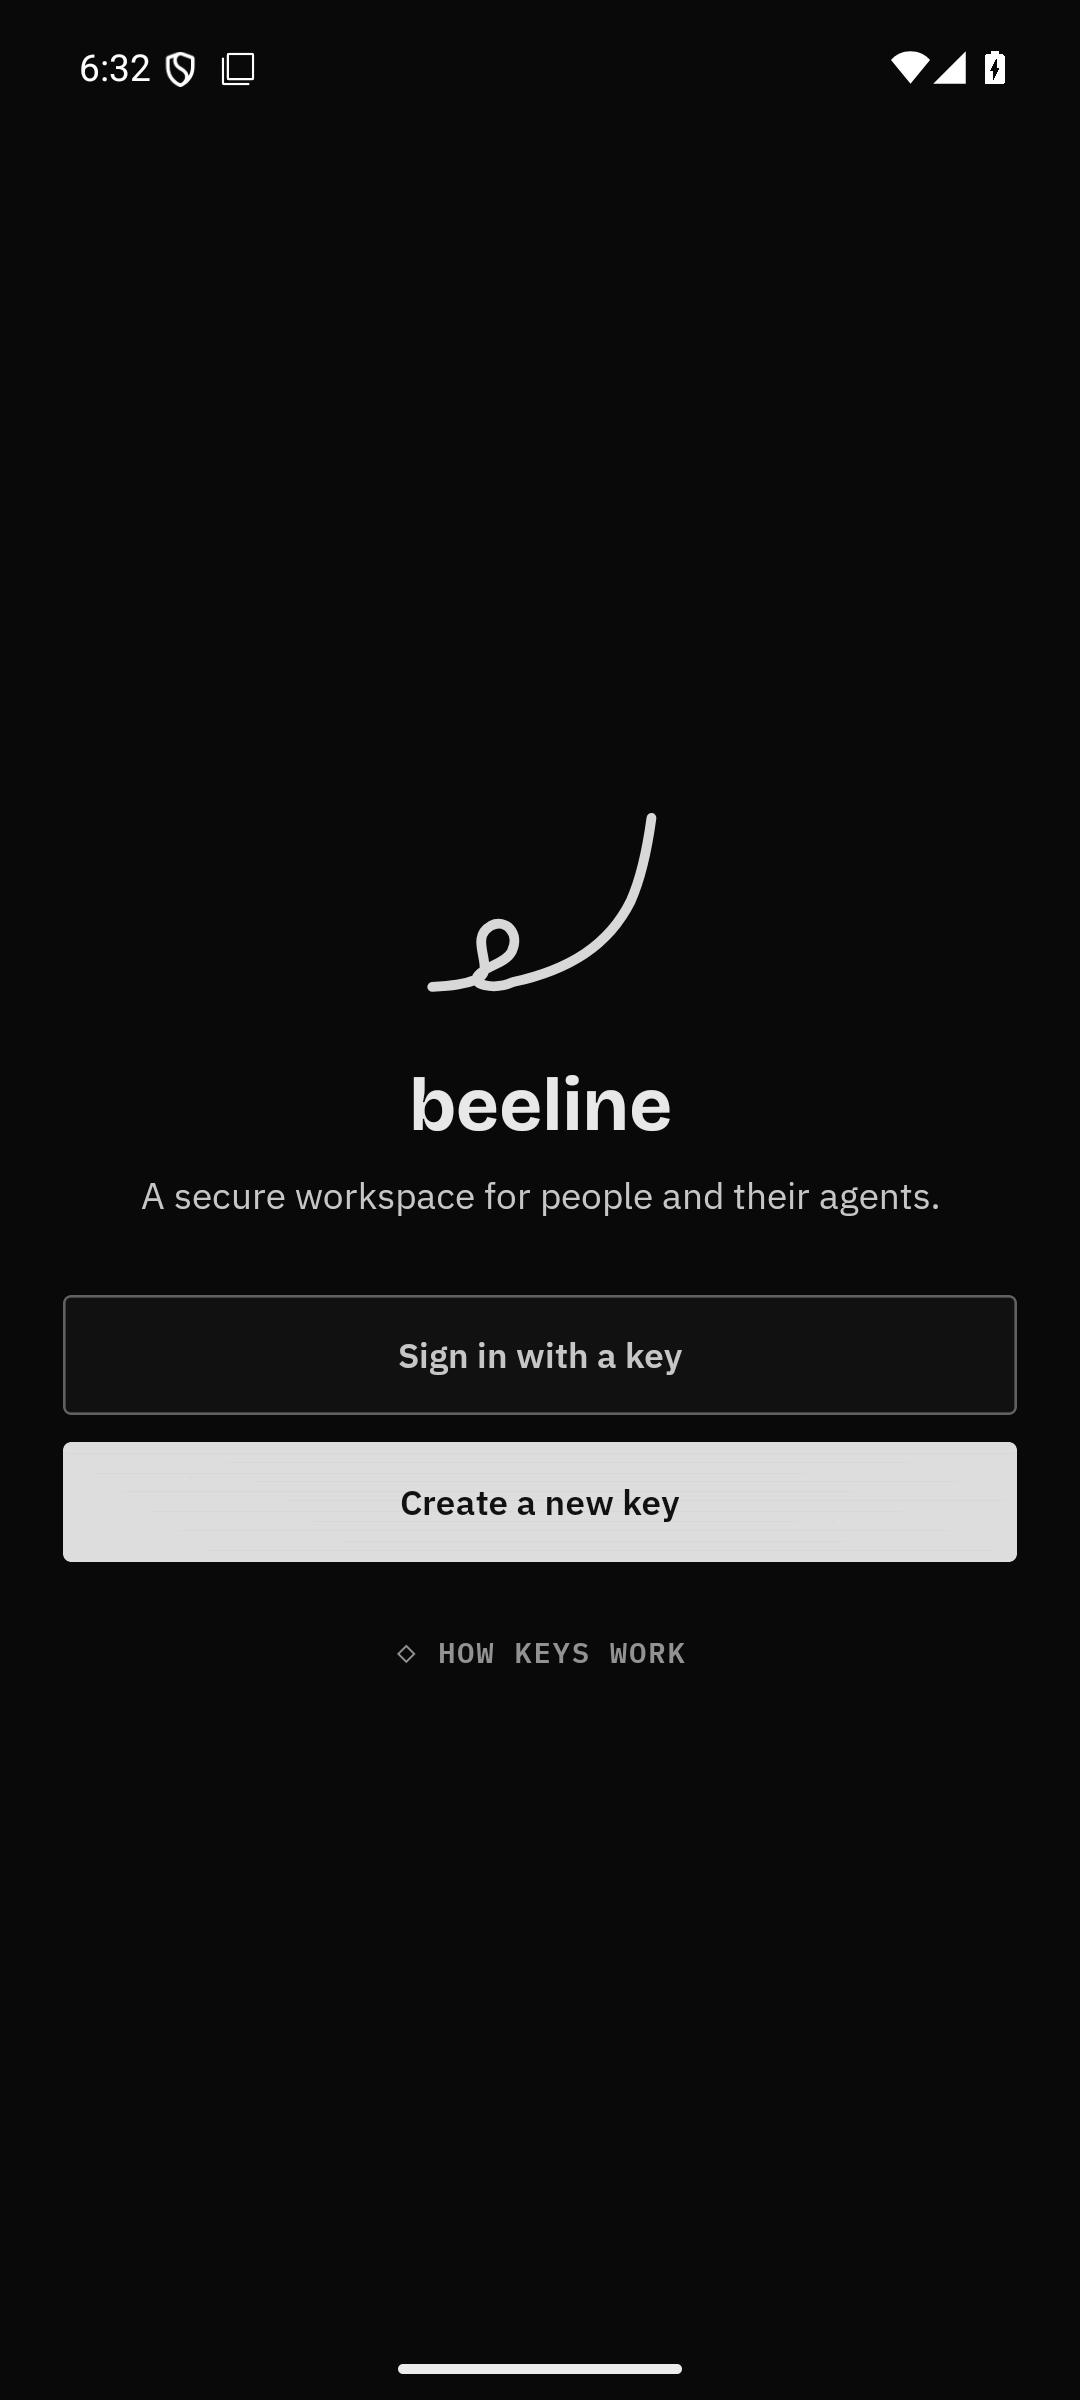
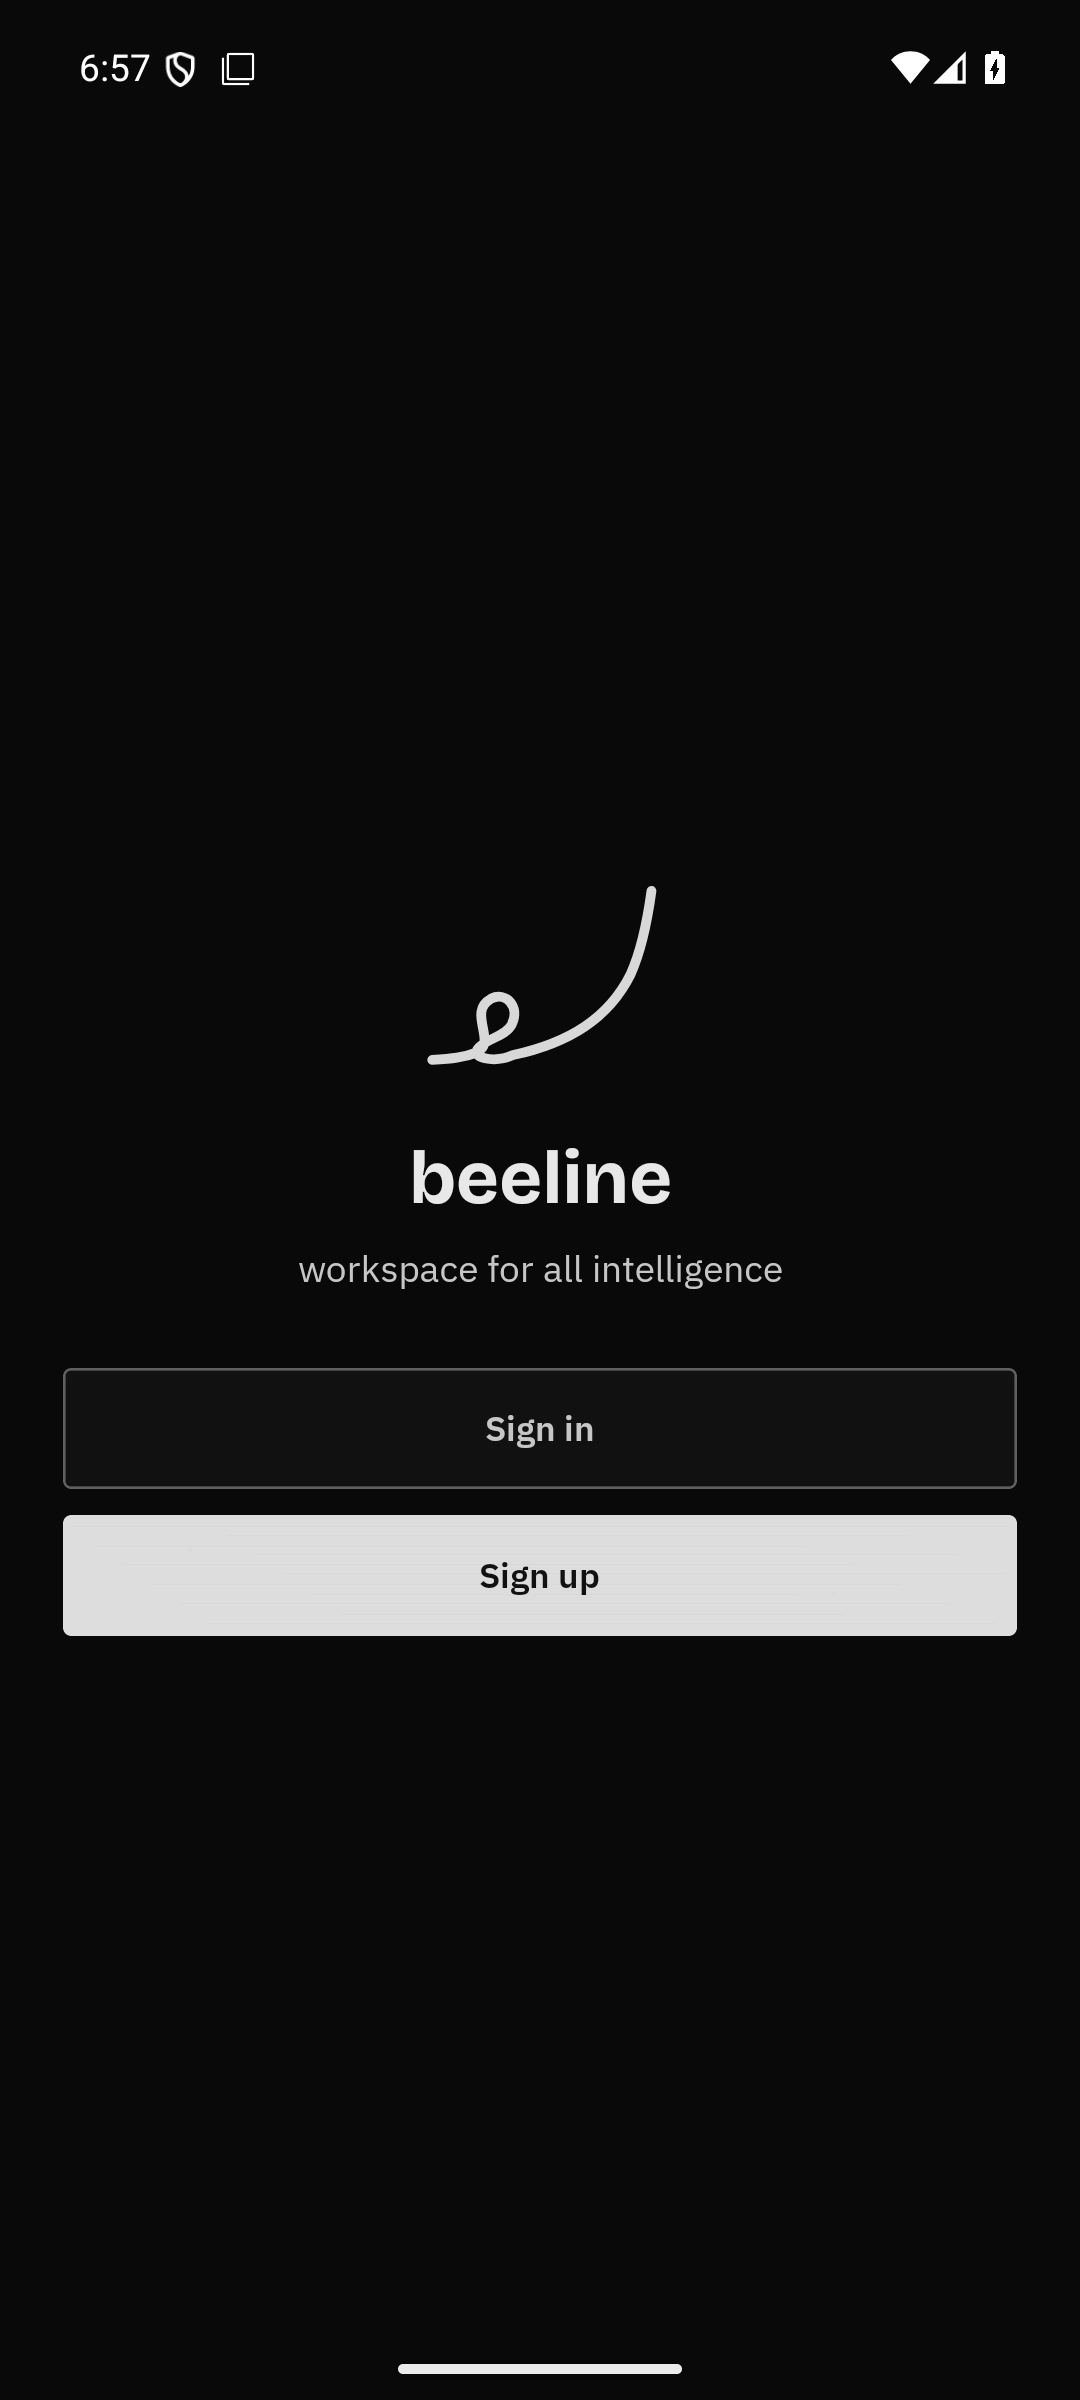
fix(mobile): restore approved onboarding copy

Changed region(s): [[0.0611, 0.3438, 0.9472, 0.7188]]

diff --git a/apps/mobile/sources/app/(app)/buzz/onboarding.tsx b/apps/mobile/sources/app/(app)/buzz/onboarding.tsx
@@ -1,6 +1,6 @@
 /** Beeline onboarding: sign up with a new key or sign in with an existing nsec. */
 import React, { useState } from 'react';
-import { Platform, StyleSheet, Text, TextInput, TouchableOpacity, View } from 'react-native';
+import { Platform, StyleSheet, Text, TextInput, View } from 'react-native';
 import { useSafeAreaInsets } from 'react-native-safe-area-context';
 import { router } from 'expo-router';
 import { generateBuzzIdentity, importBuzzIdentity } from '@/auth/buzz-identity-storage';
@@ -57,7 +57,7 @@ export default function BuzzOnboarding() {
       <View style={styles.brandSurface}>
         <BeelineMark shimmer />
         <Text style={styles.title}>beeline</Text>
-        <Text style={styles.subtitle}>A secure workspace for people and their agents.</Text>
+        <Text style={styles.subtitle}>workspace for all intelligence</Text>
       </View>
 
       {error && (
@@ -94,7 +94,7 @@ export default function BuzzOnboarding() {
 
       <View style={styles.actions}>
         <MonoButton
-          label={showSignIn ? 'Import and continue' : 'Sign in with a key'}
+          label="Sign in"
           loading={loadingAction === 'import'}
           variant="secondary"
           onPress={() => {
@@ -108,20 +108,13 @@ export default function BuzzOnboarding() {
           disabled={loading}
         />
         <MonoButton
-          label={loadingAction === 'generate' ? 'Generating key' : 'Create a new key'}
+          label="Sign up"
           loading={loadingAction === 'generate'}
           onPress={() => void handleGenerate()}
           disabled={loading}
         />
       </View>
 
-      <TouchableOpacity
-        accessibilityRole="button"
-        accessibilityLabel="Learn how Beeline keys work"
-        style={styles.guideTarget}
-      >
-        <Text style={styles.guideText}>◇ HOW KEYS WORK</Text>
-      </TouchableOpacity>
     </View>
   );
 }
@@ -202,13 +195,5 @@ const styles = StyleSheet.create({
     color: groknight.textSecondary,
     fontSize: 14,
     lineHeight: 20,
-  },
-  guideTarget: { minHeight: 44, alignItems: 'center', justifyContent: 'center', marginTop: 12 },
-  guideText: {
-    ...Typography.mono('semiBold'),
-    color: groknight.textMuted,
-    fontSize: 11,
-    lineHeight: 15,
-    letterSpacing: 0.8,
   },
 });
